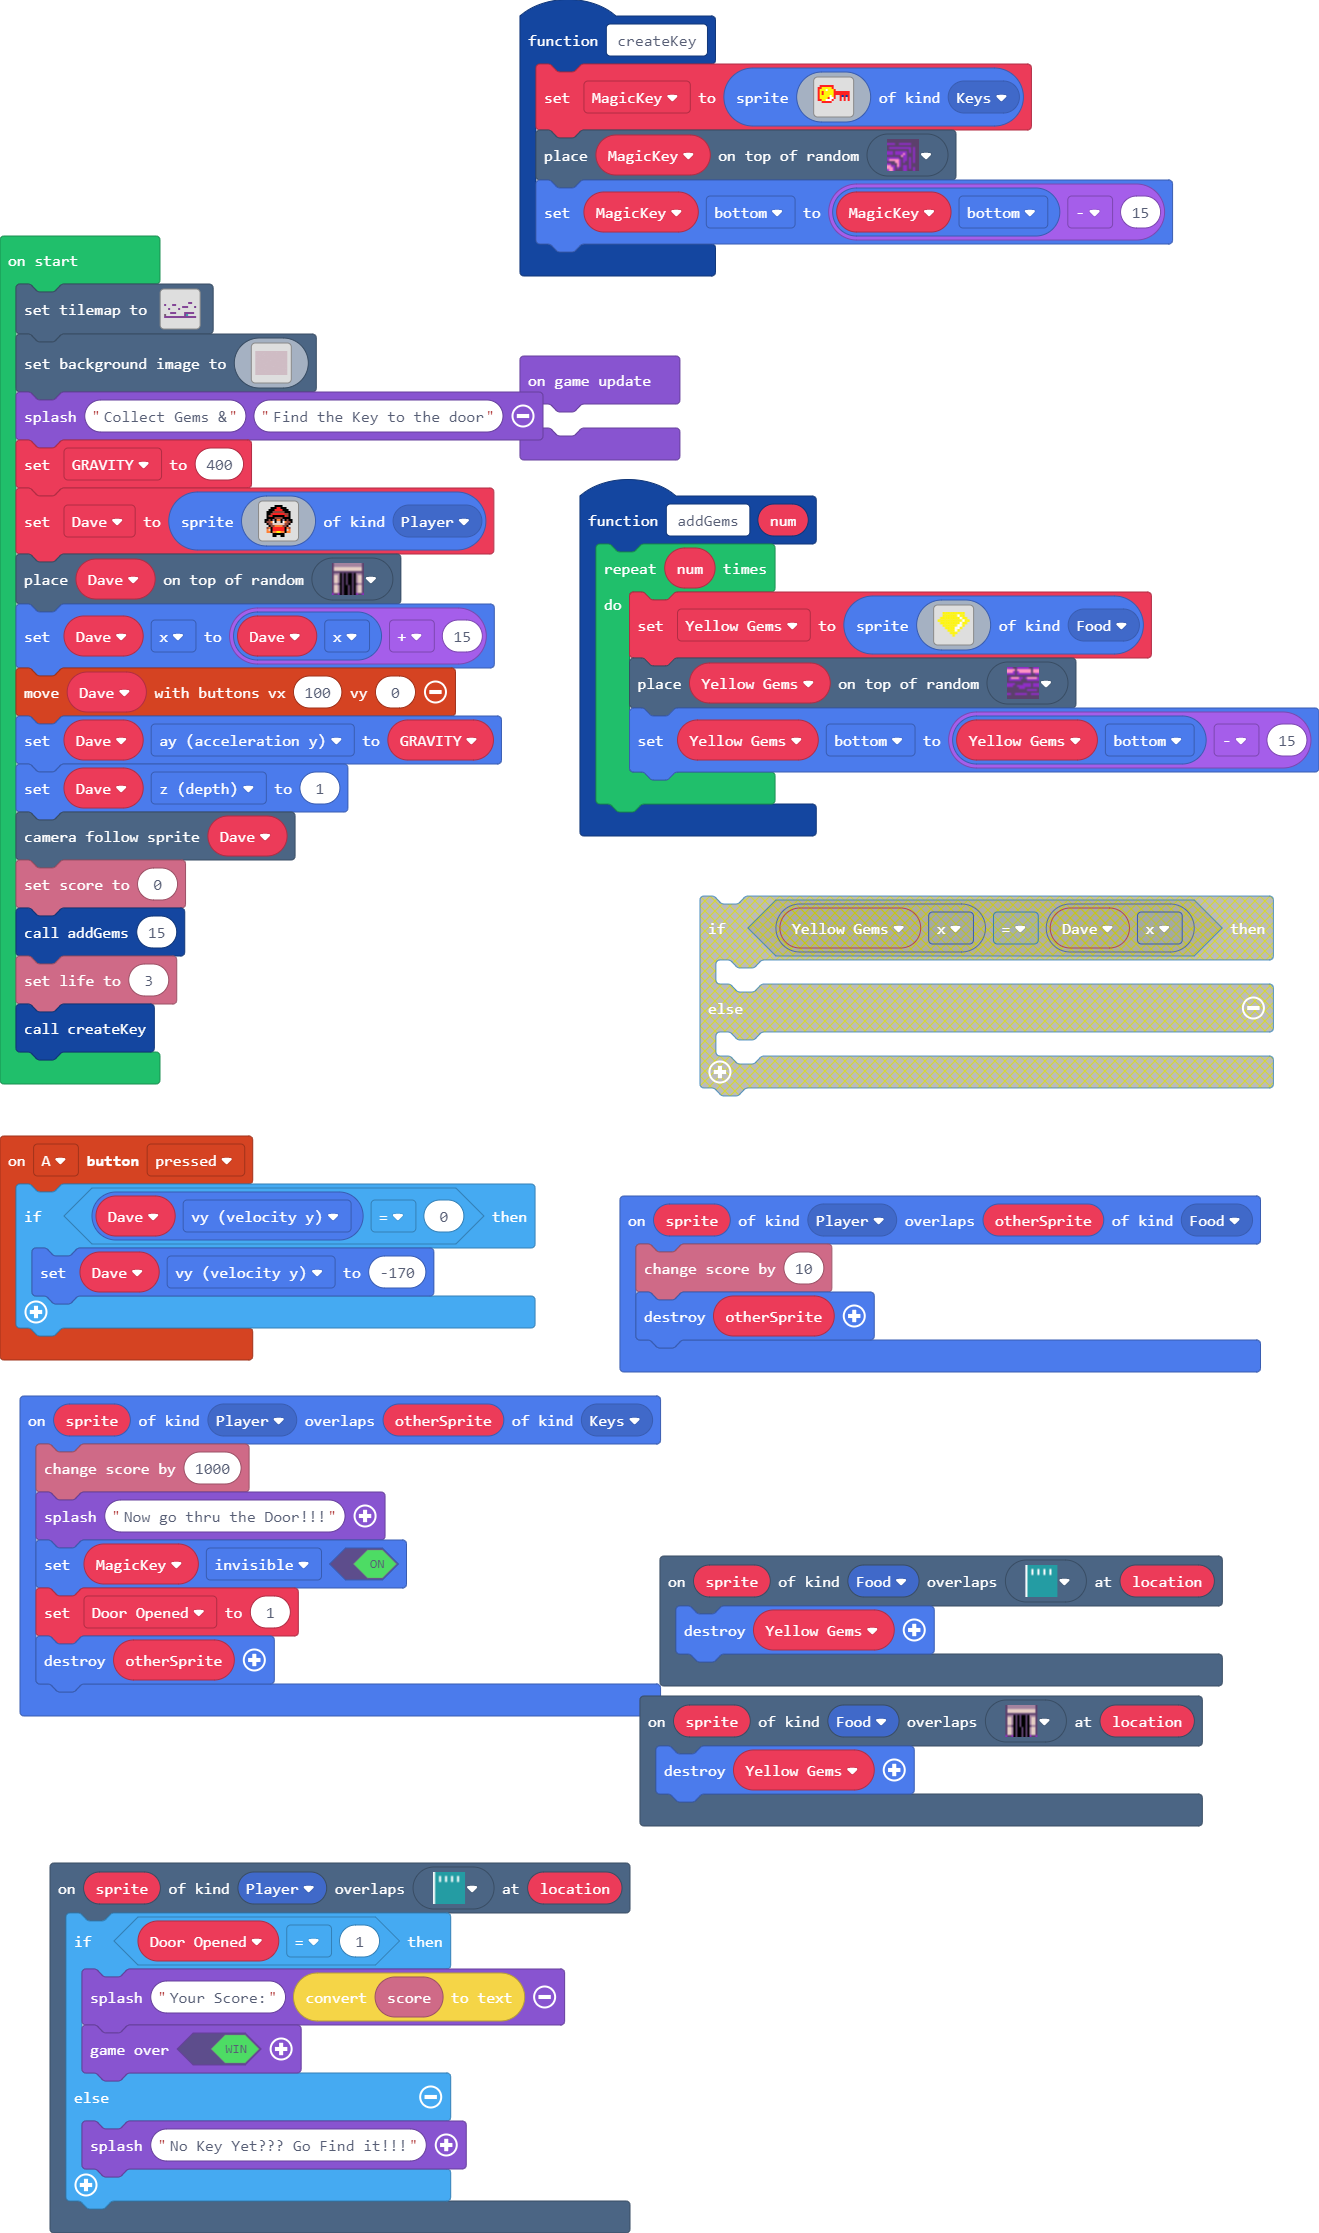
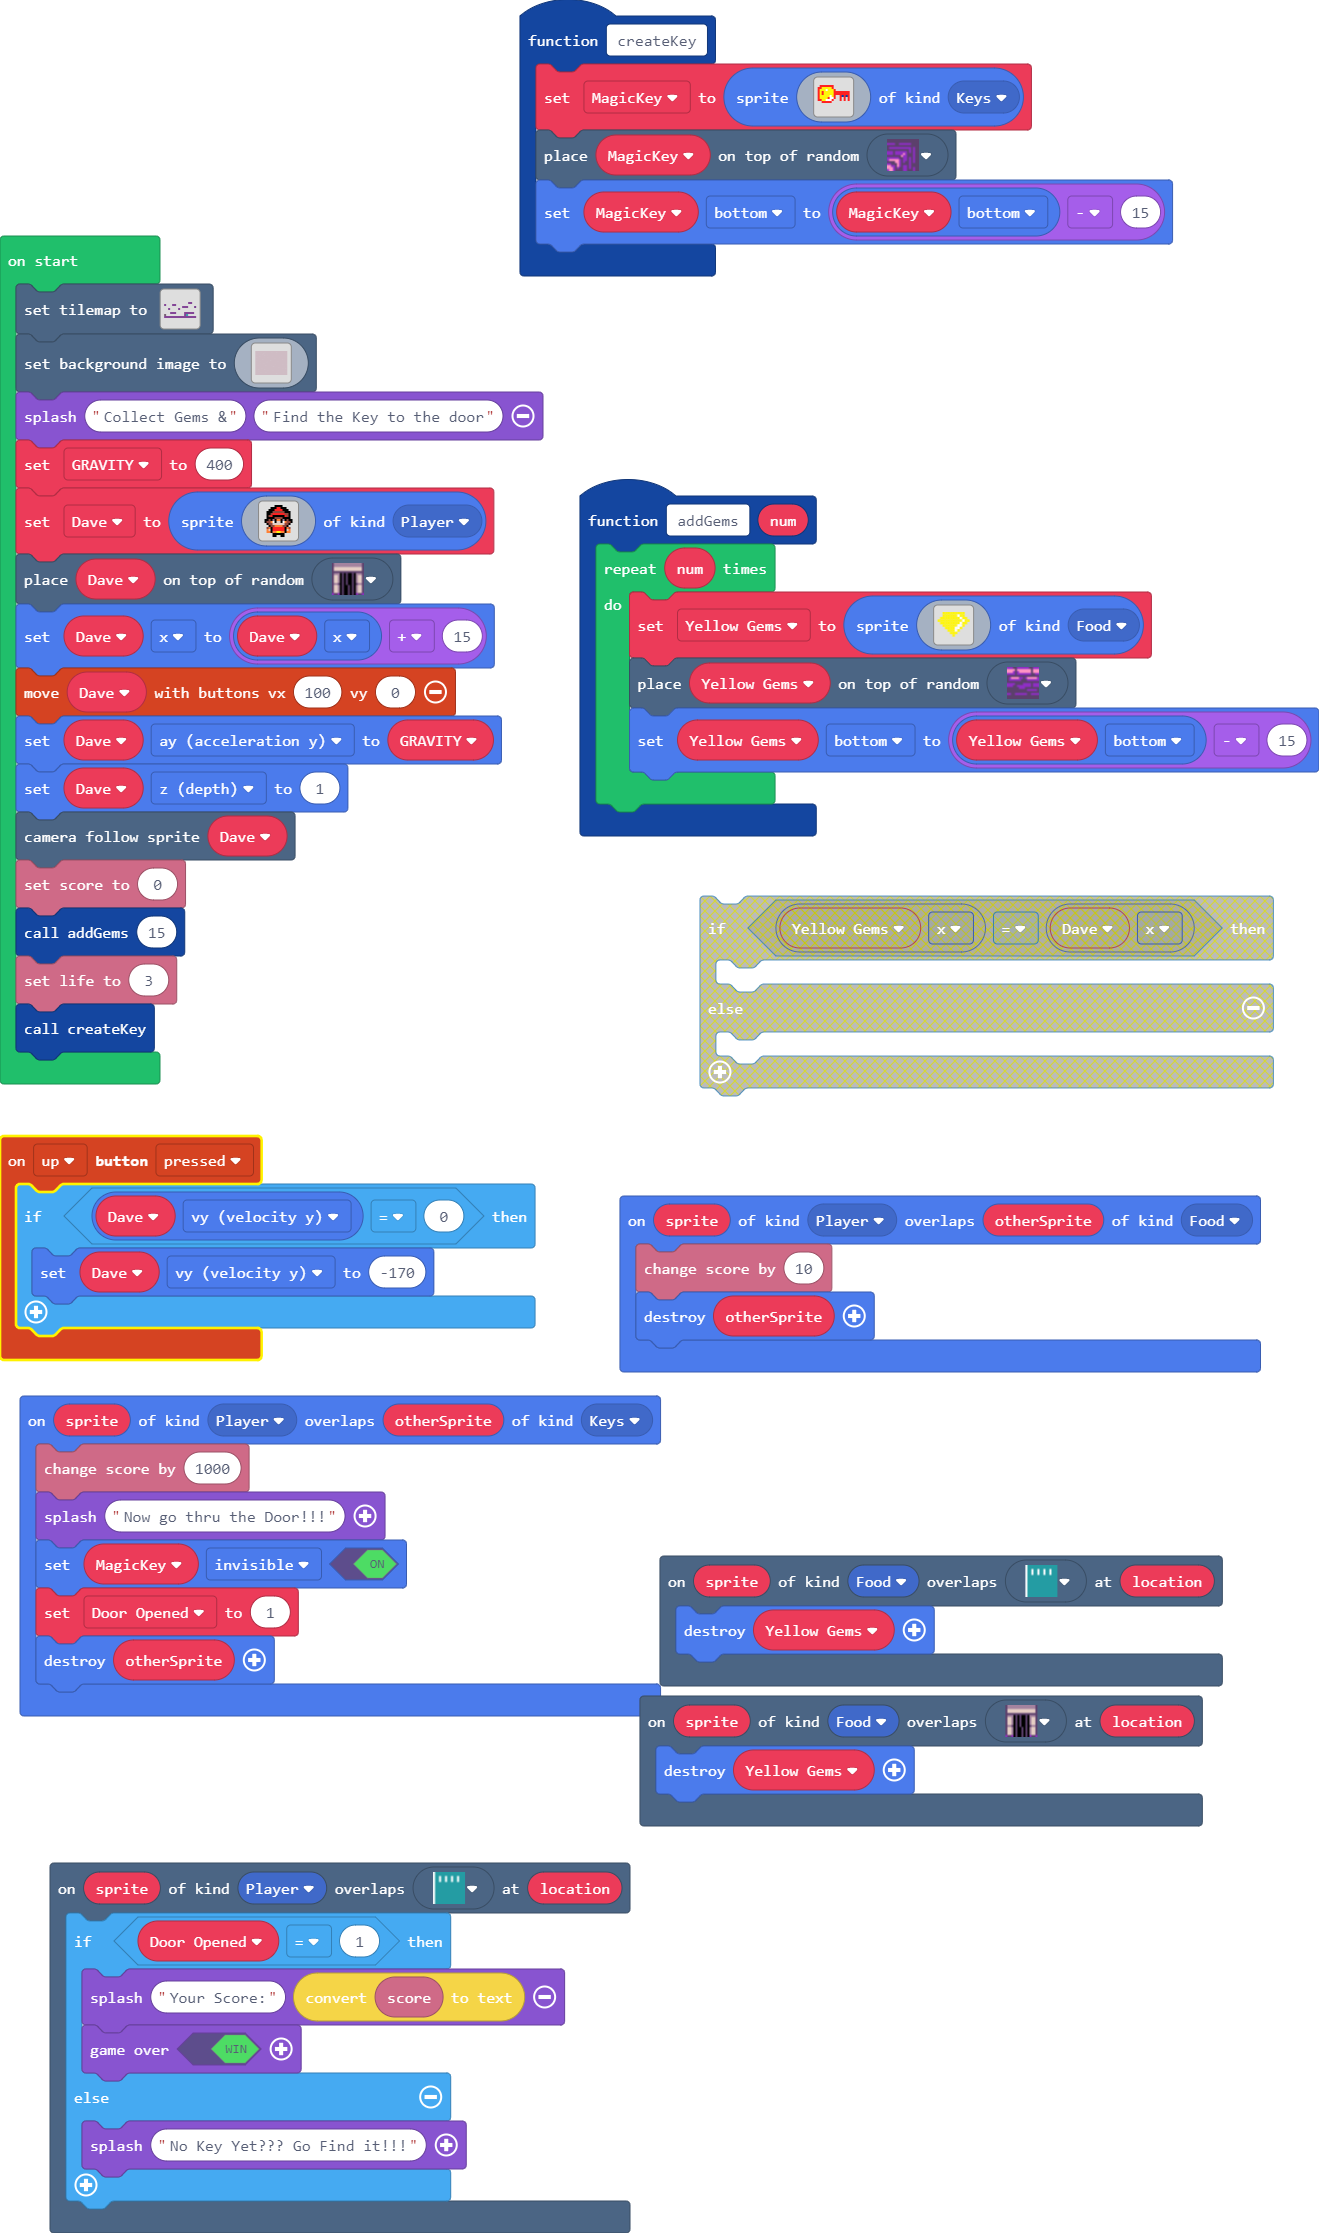
Update main.blocks, main.ts

Changed region(s): [[0.373, 0.1545, 0.5284, 0.2163], [0.0, 0.5253, 0.2176, 0.618], [0.0311, 0.4944, 0.2176, 0.5253]]

diff --git a/main.ts b/main.ts
@@ -152,11 +152,6 @@ sprites.onOverlap(SpriteKind.Player, SpriteKind.Food, function (sprite, otherSpr
     info.changeScoreBy(10)
     otherSprite.destroy()
 })
-controller.A.onEvent(ControllerButtonEvent.Pressed, function () {
-    if (Dave.vy == 0) {
-        Dave.vy = -170
-    }
-})
 scene.onOverlapTile(SpriteKind.Player, sprites.builtin.field1, function (sprite, location) {
     if (Door_Opened == 1) {
         game.splash("Your Score:", convertToText(info.score()))
@@ -167,6 +162,11 @@ scene.onOverlapTile(SpriteKind.Player, sprites.builtin.field1, function (sprite,
 })
 scene.onOverlapTile(SpriteKind.Food, sprites.dungeon.doorClosedNorth, function (sprite, location) {
     Yellow_Gems.destroy()
+})
+controller.up.onEvent(ControllerButtonEvent.Pressed, function () {
+    if (Dave.vy == 0) {
+        Dave.vy = -170
+    }
 })
 let Door_Opened = 0
 let MagicKey: Sprite = null
@@ -340,6 +340,3 @@ info.setScore(0)
 addGems(15)
 info.setLife(3)
 createKey()
-game.onUpdate(function () {
-	
-})
